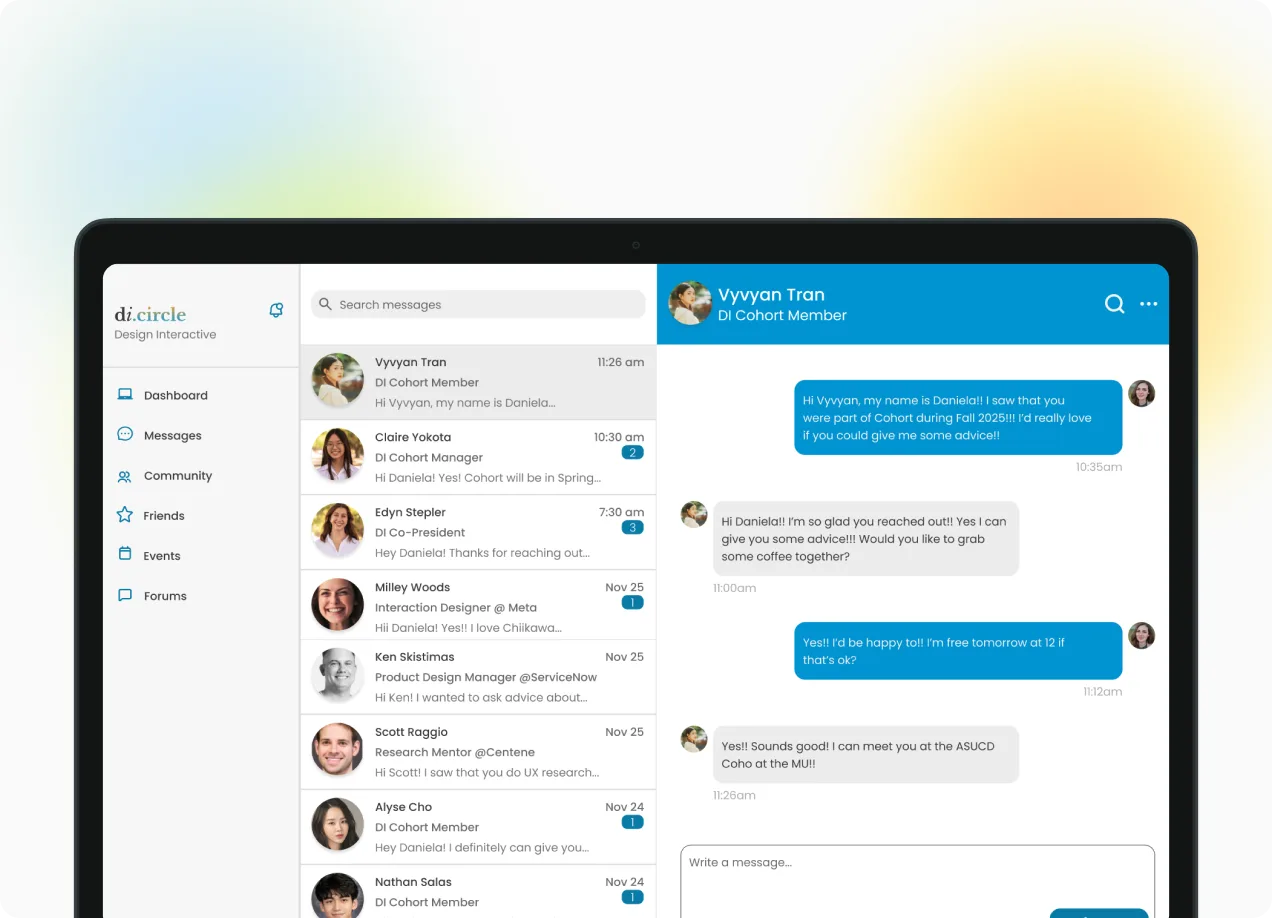
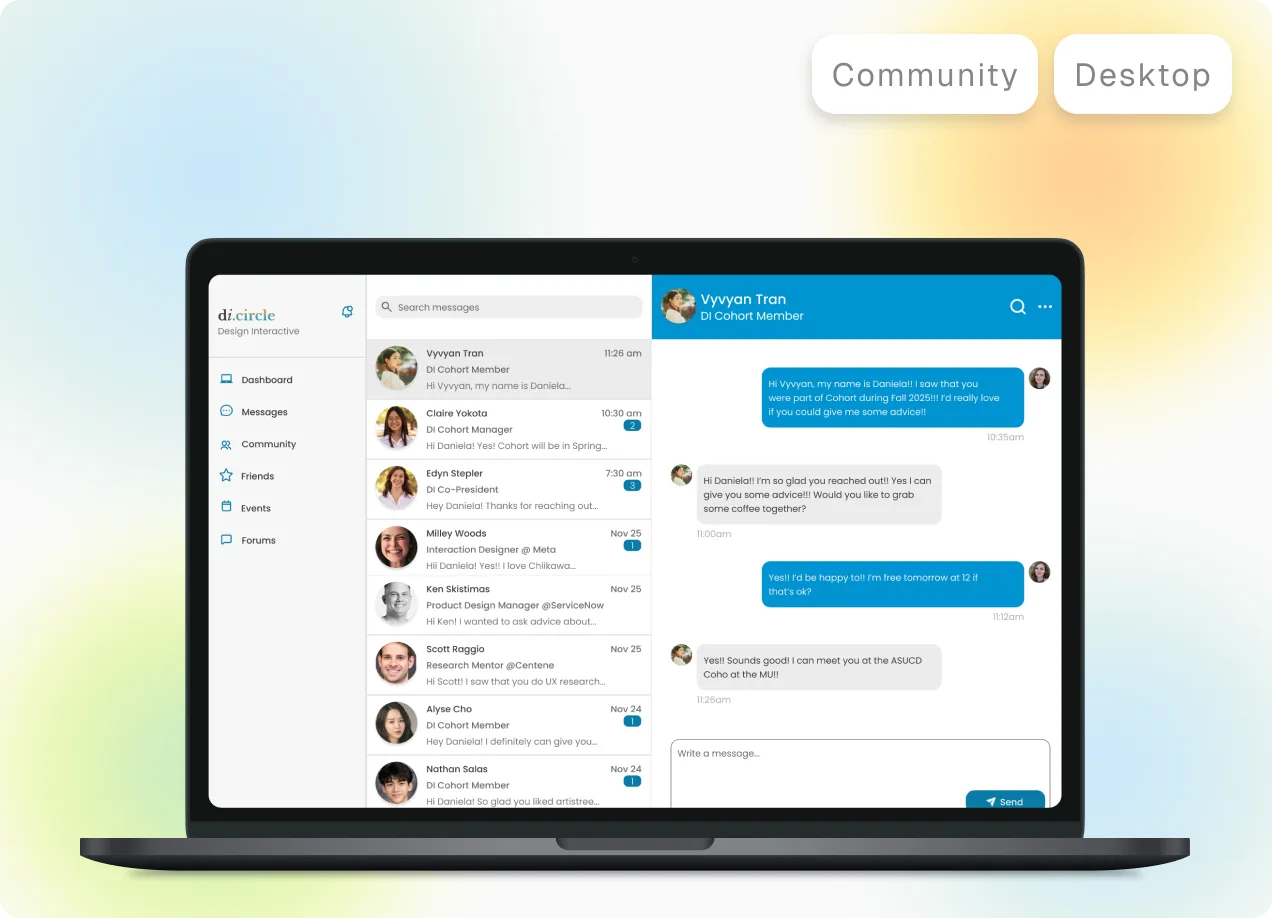
di.circle card: match ThreadIt's format; enlarge ThreadIt mockup safely
di.circle: new cover image (laptop/messaging UI on gradient bg with
Community/Desktop tag pills), tag moved above the cover in #3d3d3d
(was blue, below), title/subtitle updated to sentence case matching
the reference.

ThreadIt mockup enlarged 24% -> 26% width. Precisely measured the tag
pill region via pixel-scanning the source cover image (white-pixel
bounding box: x 58.65-98.19%, y 2.4-11%) rather than eyeballing it,
then solved for the largest mockup width that keeps a real safety
margin below the pills given the mockup's vertical centering and
600:1206 aspect ratio -- 26% leaves ~2.8% margin (~12px), vs. 27%
which left only ~1.4%, too tight for cross-browser rounding safety.

Verified with getBoundingClientRect against the cover's actual
settled position (the mask span RevealImage inserts), not the <img>
itself, which reports its pre-reveal translateY(101%) position until
its own scroll-triggered reveal fires -- measuring the <img> directly
gave a wildly wrong (false negative on overlap risk) result.

diff --git a/src/components/WorkCards.tsx b/src/components/WorkCards.tsx
@@ -65,7 +65,7 @@ export default function WorkCards() {
               <RevealImage src="/assets/cover-threadit.webp" alt="ThreadIt app — closet, home, and planning screens" style={{ display: "block", width: "100%", height: "auto", borderRadius: 16 }} />
               <img className="pc-pop" src="/assets/pop-tie.webp" alt="" style={{ position: "absolute", top: "-4%", right: "-5%", width: "22%", transform: "scale(.4) rotate(14deg)" }} />
               <img className="pc-pop" src="/assets/pop-hanger.webp" alt="" style={{ position: "absolute", top: "52%", left: "-5%", width: "12%", transform: "scale(.4) rotate(-16deg)" }} />
-              <RevealPhoneMockup style={{ position: "absolute", left: "50%", top: "50%", transform: "translate(-50%,-50%)", width: "24%", aspectRatio: "600/1206", filter: "drop-shadow(0 14px 30px rgba(44,54,74,.25))" }}>
+              <RevealPhoneMockup style={{ position: "absolute", left: "50%", top: "50%", transform: "translate(-50%,-50%)", width: "26%", aspectRatio: "600/1206", filter: "drop-shadow(0 14px 30px rgba(44,54,74,.25))" }}>
                 <video
                   src="/assets/final-onboarding.mp4"
                   autoPlay
@@ -84,13 +84,15 @@ export default function WorkCards() {
           </Link>
 
           <div data-cursor="soon" style={{ width: "100%" }}>
+            <RevealText tag="p" trigger="scroll" variant="words" stagger={0.03} style={{ ...tagStyle, margin: "0 0 clamp(10px,1vw,14px)", color: "#3d3d3d" }}>
+              Design Interactive • Dec 2025
+            </RevealText>
             <div style={{ position: "relative", width: "100%" }}>
               <RevealImage src="/assets/cover-dicircle.webp" alt="di.circle messaging dashboard for connecting students with alumni" style={{ display: "block", width: "100%", height: "auto", borderRadius: 16 }} />
             </div>
             <CardText
-              title="Lowering First-Contact Friction Between Students and Alumni"
-              subtitle="Reducing the friction that keeps students from reaching out to alumni and mentors"
-              tag="Design Interactive • October 2025"
+              title="Turning professional connections into lasting relationships"
+              subtitle="Helping students maintain professional relationships informed by usability testing with 8 students"
             />
           </div>
         </div>
